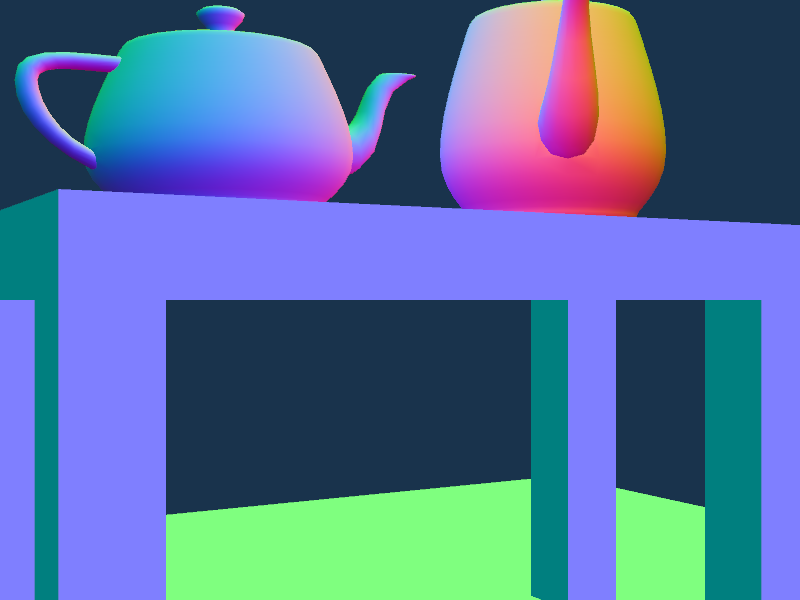
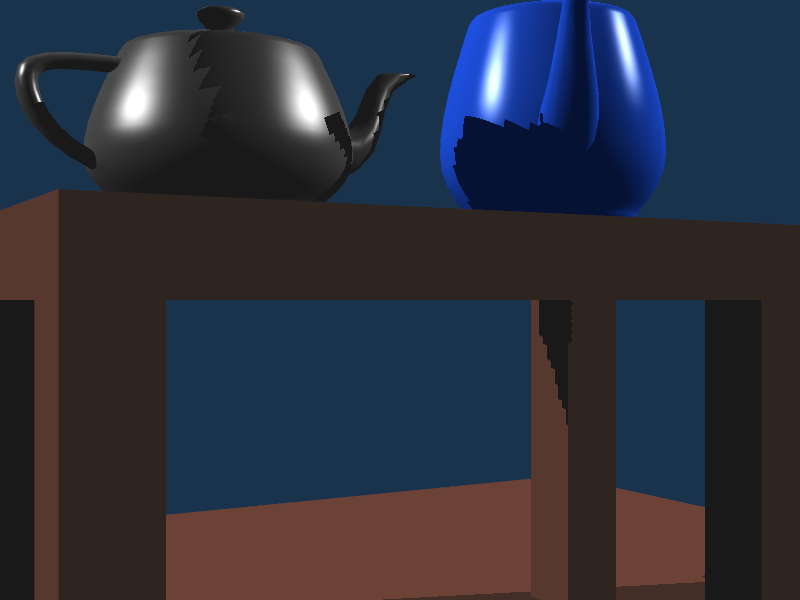
Minor changes for the milestone

diff --git a/HW3/include/hw3AutoScreenshots.h b/HW3/include/hw3AutoScreenshots.h
@@ -7,11 +7,10 @@ void display(void);
 void saveScreenShot(const char* filename);
 void hw3AutoScreenshots(){
     scene.camera -> reset();
-    //scene.surfaceShader -> enablelighting = false;
     display();
     saveScreenShot("image-00.png");
     
-    keyboard('l',0,0);
+    //keyboard('l',0,0);
     display();
     saveScreenShot("image-01.png");
     
@@ -39,6 +38,5 @@ void hw3AutoScreenshots(){
     saveScreenShot("image-03.png");
     
     scene.camera -> reset();
-    //scene.surfaceShader -> enablelighting = false;
     display();
 }
